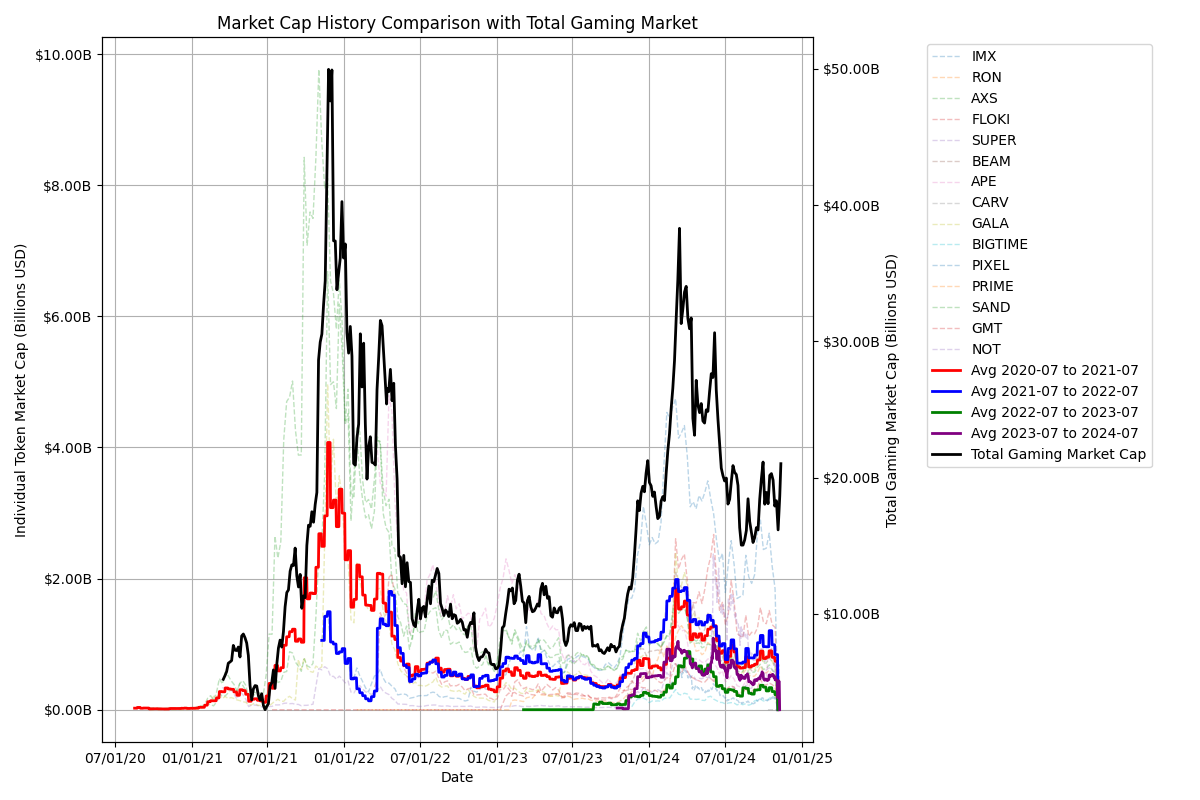
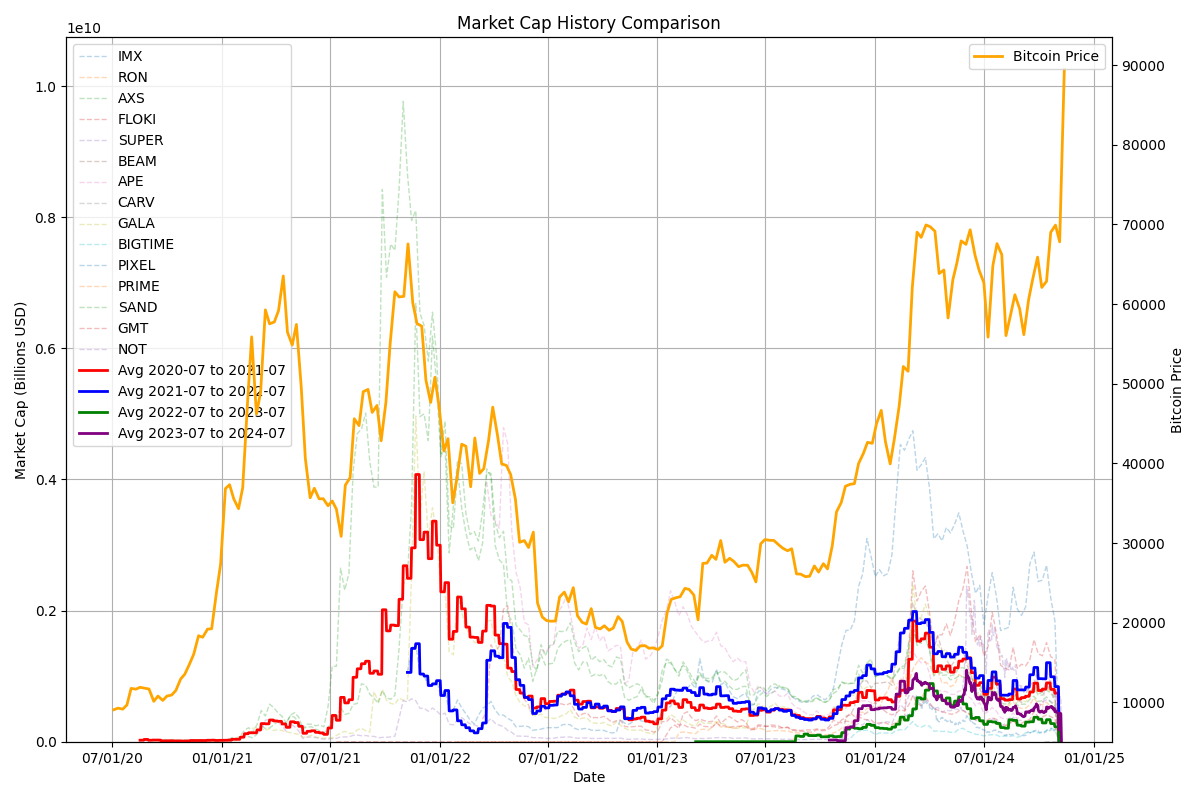
fixed axis

diff --git a/main.py b/main.py
@@ -18,9 +18,6 @@ filtered_df = df[df['FDV'] > 500000000].copy()
 # Extract token abbreviations
 filtered_df['Token Abbreviation'] = filtered_df['Coin'].str.extract(r'\((.*?)\)')
 
-# print(filtered_df)
-# print(df)
-
 # Dictionary to store DataFrames for each token
 token_dfs = {}
 
@@ -51,9 +48,6 @@ for token in filtered_df['Token Abbreviation']:
 if not token_dfs:
     raise ValueError("No data was loaded successfully. Please check the CSV files and their formats.")
 
-
-print(df)
-print(token_dfs)
 # Create cohort periods (12-month intervals) with UTC timezone
 cohort_periods = pd.date_range(
     start='2020-07-01', 
@@ -106,7 +100,6 @@ for i, tokens in cohort_tokens.items():
             cohort_mean = cohort_mean.dropna()
             
             if not cohort_mean.empty:
-                # print(cohort_mean)
                 period_start = cohort_periods[i].strftime('%Y-%m')
                 period_end = cohort_periods[i+1].strftime('%Y-%m')
                 
@@ -124,11 +117,50 @@ max_market_cap = max(all_market_caps + all_cohort_means, default=0)
 ax1.set_ylim(bottom=0)  # Ensure the y-axis starts at 0
 ax1.set_ylim(top=max_market_cap * 1.1 if max_market_cap > 0 else 1)  # Add 10% headroom or set a default
 
+# Fetch Bitcoin market cap data
+bitcoin_url = "https://api.coinmarketcap.com/data-api/v3/cryptocurrency/detail/chart"
+bitcoin_params = {
+    'id': '1',  # Bitcoin's ID
+    'range': 'all'
+}
+
+try:
+    bitcoin_response = requests.get(bitcoin_url, params=bitcoin_params)
+    bitcoin_response.raise_for_status()
+    bitcoin_data = bitcoin_response.json()
+    
+    if 'data' in bitcoin_data and 'points' in bitcoin_data['data']:
+        bitcoin_points = bitcoin_data['data']['points']
+        bitcoin_df = pd.DataFrame.from_dict(bitcoin_points, orient='index')
+        bitcoin_df['timestamp'] = pd.to_datetime(bitcoin_df.index.astype(float), unit='s')
+        
+        if 'v' in bitcoin_df.columns:
+            bitcoin_df = bitcoin_df.rename(columns={'v': 'marketCap'})
+            bitcoin_df['marketCap'] = bitcoin_df['marketCap'].apply(lambda x: x if isinstance(x, (int, float)) else (x[0] if isinstance(x, list) and len(x) > 0 else None))
+        bitcoin_df['marketCap'] = pd.to_numeric(bitcoin_df['marketCap'], errors='coerce') 
+        
+        bitcoin_df = bitcoin_df[bitcoin_df['timestamp'] >= '2020-07-01']
+        
+        # Print the values to be graphed
+        print("Bitcoin Market Cap Data to be Graphed:")
+        print(bitcoin_df[['timestamp', 'marketCap']])
+        
+        # Plot Bitcoin market cap on a new y-axis
+        ax2 = ax1.twinx()
+        ax2.plot(bitcoin_df['timestamp'], bitcoin_df['marketCap'],
+                label='Bitcoin Price', color='orange', linewidth=2)
+        ax2.set_ylabel('Bitcoin Price')
+        ax2.grid(False)
+        ax2.legend(loc='upper right')
+
+except Exception as e:
+    print(f"Error getting Bitcoin market cap data: {e}")
+
 # Print diagnostic information
 print("Max market cap values for individual tokens:", all_market_caps)
 print("Max cohort mean values:", all_cohort_means)
 print("Overall max market cap for scaling:", max_market_cap)
-
+print(bitcoin_df)
 # Customize the plot
 ax1.set_title('Market Cap History Comparison')
 ax1.set_xlabel('Date')
